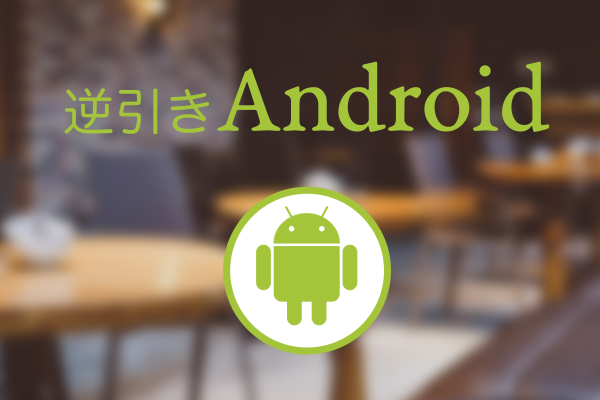
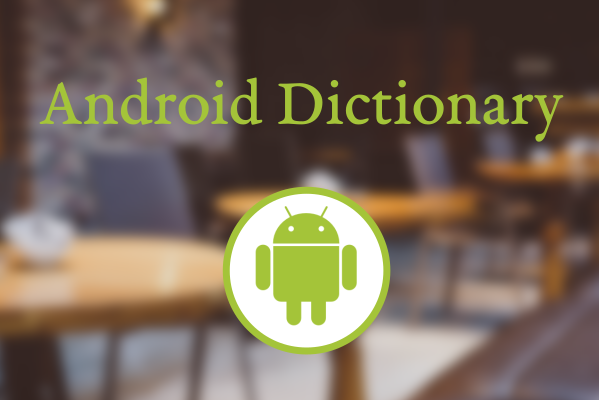
Make document english

Changed region(s): [[0.0601, 0.15, 0.9316, 0.36], [0.5409, 0.63, 0.601, 0.72]]

diff --git a/front-page.php b/front-page.php
@@ -1,8 +1,7 @@
-<?php get_header(); ?>
-<!-- Contents -->             
+<?php get_header(); ?>          
     <div id="contents">
         <div class="post">        
-            <?php if ( have_posts() ) :    // もし投稿があるなら ?>
+            <?php if ( have_posts() ) : ?>
             <div class="newentry"></div>
             <div class="cards">
                 <div class="cards-inside">
@@ -10,23 +9,23 @@
                         <div class="l-card">
                             <div class="l-thumbnail">
                                 <figure class="thumbnail-wrapper">
-                                    <img src="<?php echo get_bloginfo('template_directory'); ?>/images/csvvisualizer.png" alt="アイキャッチ画像" width="360" height="220" />
+                                    <img src="<?php echo get_bloginfo('template_directory'); ?>/images/datascience.png" alt="Eyecatch Image" width="360" height="220" />
                                 </figure>
                                 <span class="more-text">Read More</span>
                             </div>
                             <div class="text-content">
-                                <p class="caption">人気急上昇中！データサイエンスに必要な基礎俯瞰処理をワンクリックで実現するツールです。CSVのレコード数が要素別に一目でわかるようになります。</p>
+                                <p class="caption">This tool realizes the basic overhead processing necessary for data science with one click. You will be able to confirm the number of CSV records for each element at a glance.</p>
                             </div>
                         </div>
                     </a>
-                    <?php $array = array("swift", "python", "go", "scala", "android", "kotlin", "flutter", "unity");
-                    foreach($array as $value){ //fruitsの先頭から１つずつ$fruitに代入する
+                    <?php $array = array("swift", "python", "android", "kotlin");
+                    foreach($array as $value){
                         ?>
-                        <a href="<?php echo esc_url( home_url( '/' ) ); ?>/<?php echo $value; ?>" title="逆引き<?php echo $value; ?>">  
+                        <a href="<?php echo esc_url( home_url( '/' ) ); ?>/<?php echo $value; ?>" title="<?php echo $value; ?> Dictionary">  
                             <div class="l-card">
                                 <div class="l-thumbnail">
                                     <figure class="thumbnail-wrapper">
-                                        <img src="<?php echo get_bloginfo('template_directory'); ?>/images/<?php echo $value; ?>.png" alt="アイキャッチ画像" width="360" height="220" />
+                                        <img src="<?php echo get_bloginfo('template_directory'); ?>/images/<?php echo $value; ?>.png" alt="Eyecatch Image" width="360" height="220" />
                                     </figure>
                                     <span class="more-text">Read More</span>
                                 </div>
@@ -34,23 +33,15 @@
                                     <?php 
                                         if ($value == 'python') {
                                             $value = "Python";
-                                        } elseif ($value == 'flutter') {
-                                            $value = "Flutter";
-                                        } elseif ($value == 'go') {
-                                            $value = "Go";
                                         } elseif ($value == 'swift') {
                                             $value = "Swift";
                                         } elseif ($value == 'kotlin') {
                                             $value = "Kotlin";
                                         } elseif ($value == 'android') {
                                             $value = "Android";
-                                        } elseif ($value == 'scala') {
-                                            $value = "Scala";
-                                        } elseif ($value == 'unity') {
-                                            $value = "Unity";
                                         }
                                     ?>
-                                    <p class="caption"><?php echo $value; ?>でできることからプログラムを逆引きできるドキュメントです。実行結果の画像を添付していますし、プログラムは動作確認済みなのでコピペでもすぐ動きます。</p>
+                                    <p class="caption">This document shows the program of <?php echo $value; ?>, images and videos of the execution results at a glance. This is suitable for beginners to use as reference.</p>
                                 </div>
                             </div>
                         </a>
@@ -58,12 +49,12 @@
                     } ?>
                 </div>
             </div>
-            <?php else :    // 投稿がない場合 ?>
+            <?php else : ?>
             <div class="notfound">
-                <h3>ページが見つかりません</h3>
-                <p>申し訳ありません。お探しのページは見つかりませんでした。</p>
+                <h3>Page Not Found</h3>
+                <p>Sorry. The page you were looking for could not be found.</p>
             </div>
-            <?php endif;    // 条件分岐終了 ?>
+            <?php endif; ?>
             <div class="newentry"></div>
             <div class="ads" style="margin-bottom:20px;">
                 <div class="adleft">

diff --git a/header.php b/header.php
@@ -1,17 +1,15 @@
 <!DOCTYPE html>
-<html lang="ja">
+<html lang="en">
 <head>
     <meta charset="UTF-8">
     <meta name="viewport" content="width=device-width, initial-scale=1.0, maximum-scale=1.0, minimum-scale=1.0">
-    <title><?php if(is_home()): //トップページ ?><?php bloginfo('name'); ?> - <?php bloginfo('description'); ?><?php elseif(is_page()): //固定ページ ?><?php wp_title(''); ?> ｜ <?php bloginfo('name'); ?> - <?php bloginfo('description'); ?><?php elseif(is_single()): //シングルページ ?><?php wp_title(''); ?> ｜ <?php bloginfo('name'); ?> - <?php bloginfo('description'); ?><?php elseif(is_category()): //カテゴリ一覧ページ ?><?php single_cat_title() ?> ｜ <?php bloginfo('name'); ?> - <?php bloginfo('description'); ?><?php elseif(is_month()): //月別ページ ?><?php the_time("Y年m月") ?>の記事一覧 ｜ <?php bloginfo('name'); ?> - <?php bloginfo('description'); ?><?php elseif(is_year()): //年別ページ ?><?php the_time("Y年") ?> ｜ <?php bloginfo('name'); ?> - <?php bloginfo('description'); ?><?php elseif(is_search())://検索結果ページ ?>検索結果 ｜ <?php bloginfo('name'); ?> - <?php bloginfo('description'); ?><?php else: //それ以外のページ ?><?php bloginfo('name'); ?> - <?php bloginfo('description'); ?><?php endif; ?></title>
+    <title><?php if(is_home()): ?><?php bloginfo('name'); ?> - <?php bloginfo('description'); ?><?php elseif(is_page()): //固定ページ ?><?php wp_title(''); ?> ｜ <?php bloginfo('name'); ?> - <?php bloginfo('description'); ?><?php elseif(is_single()): //シングルページ ?><?php wp_title(''); ?> ｜ <?php bloginfo('name'); ?> - <?php bloginfo('description'); ?><?php elseif(is_category()): //カテゴリ一覧ページ ?><?php single_cat_title() ?> ｜ <?php bloginfo('name'); ?> - <?php bloginfo('description'); ?><?php elseif(is_month()): //月別ページ ?><?php the_time("Y年m月") ?>の記事一覧 ｜ <?php bloginfo('name'); ?> - <?php bloginfo('description'); ?><?php elseif(is_year()): //年別ページ ?><?php the_time("Y年") ?> ｜ <?php bloginfo('name'); ?> - <?php bloginfo('description'); ?><?php elseif(is_search())://検索結果ページ ?>検索結果 ｜ <?php bloginfo('name'); ?> - <?php bloginfo('description'); ?><?php else: //それ以外のページ ?><?php bloginfo('name'); ?> - <?php bloginfo('description'); ?><?php endif; ?></title>
     <meta name="description" content="「プログラミングを独学ではじめるならTECHBIRD」をコンセプトに、様々なプログラミング言語を解説しています。">
     <?php
         $post_type = get_post_type();
         $post_name = ""; 
         if ($post_type == 'python') {
             $post_name = "Python";
-        } elseif ($post_type == 'flutter') {
-            $post_name = "Flutter";
         } elseif ($post_type == 'go') {
             $post_name = "Go";
         } elseif ($post_type == 'swift') {
@@ -20,16 +18,12 @@
             $post_name = "Kotlin";
         } elseif ($post_type == 'android') {
             $post_name = "Android";
-        } elseif ($post_type == 'scala') {
-            $post_name = "Scala";
-        } elseif ($post_type == 'unity') {
-            $post_name = "Unity";
         }
-        if($post_type == 'python' || $post_type == 'flutter' || $post_type == 'go' || $post_type == 'swift' || $post_type == 'kotlin' || $post_type == 'android' || $post_type == 'scala' || $post_type == 'unity'){ ?>
-        <meta name="keywords" content="<?php echo $post_name; ?>, 逆引き, できること, 初心者, 入門, 独学">
+        if($post_type == 'python' || $post_type == 'go' || $post_type == 'swift' || $post_type == 'kotlin' || $post_type == 'android' ){ ?>
+        <meta name="keywords" content="<?php echo $post_name; ?>, Programming, Tutorial, Download, Beginner, Entrance, Study">
         <?php
             } else { ?>
-         <meta name="keywords" content="プログラミング, 逆引き, できること, 初心者, 入門, 独学">
+         <meta name="keywords" content="Programming, Tutorial, Download, Beginner, Entrance, Study">
         <?php
             }
         ?>
